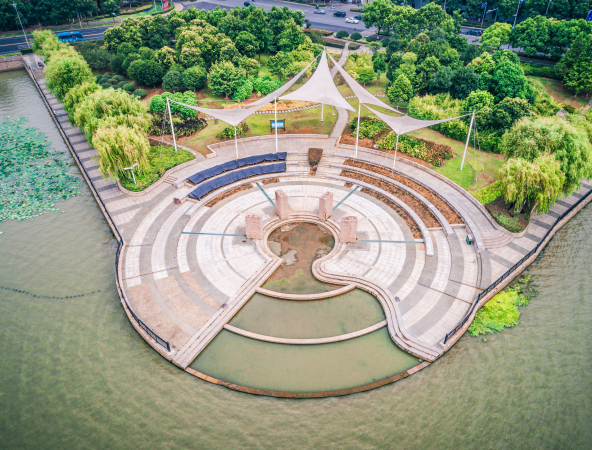
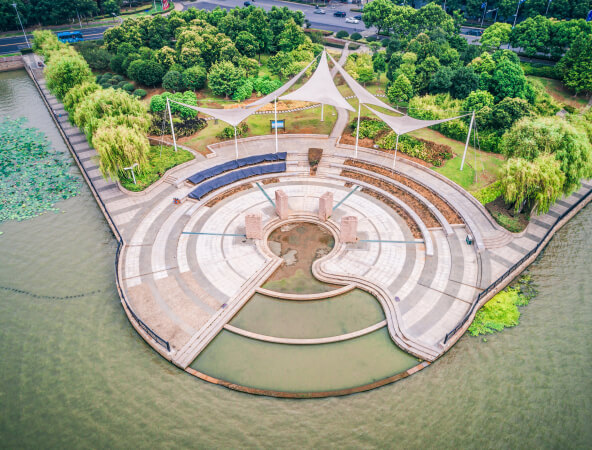
optimized images

diff --git a/build/sectors.html b/build/sectors.html
@@ -129,7 +129,7 @@
                   </ul>
                 </div>
                 <div class="col-12 col-md-6">
-                  <div class="text-center"><img src="img/industry-img-1.svg" alt=""></div>
+                  <div class="text-center"><img src="img/industry-img-1.png" alt=""></div>
                 </div>
               </div>
             </div>
@@ -161,7 +161,7 @@
                   </ul>
                 </div>
                 <div class="col-12 col-md-6">
-                  <div class="text-center"><img src="img/industry-img-2.svg" alt=""></div>
+                  <div class="text-center"><img src="img/industry-img-2.png" alt=""></div>
                 </div>
               </div>
             </div>
@@ -185,7 +185,7 @@
                   </ul>
                 </div>
                 <div class="col-12 col-md-6">
-                  <div class="text-center"><img src="img/industry-img-3.svg" alt=""></div>
+                  <div class="text-center"><img src="img/industry-img-3.png" alt=""></div>
                 </div>
               </div>
             </div>
@@ -205,7 +205,7 @@
                   </ul>
                 </div>
                 <div class="col-12 col-md-6">
-                  <div class="text-center"><img src="img/industry-img-4.svg" alt=""></div>
+                  <div class="text-center"><img src="img/industry-img-4.png" alt=""></div>
                 </div>
               </div>
             </div>
@@ -225,7 +225,7 @@
                   </ul>
                 </div>
                 <div class="col-12 col-md-6">
-                  <div class="text-center"><img src="img/industry-img-5.svg" alt=""></div>
+                  <div class="text-center"><img src="img/industry-img-5.png" alt=""></div>
                 </div>
               </div>
             </div>
@@ -245,7 +245,7 @@
                   </ul>
                 </div>
                 <div class="col-12 col-md-6">
-                  <div class="text-center"><img src="img/industry-img-6.svg" alt=""></div>
+                  <div class="text-center"><img src="img/industry-img-6.png" alt=""></div>
                 </div>
               </div>
             </div>

diff --git a/src/js/main.js b/src/js/main.js
@@ -42,33 +42,37 @@ function smoothScroll() {
     for (let i = 0; i < linkNav.length; i++) {
         linkNav[i].addEventListener("click", function (e) {
             e.preventDefault(); 
-            let w = window.pageYOffset; 
-            let hash = this.href.replace(/[^#]*(.*)/, "$1");
-            let tar = document.querySelector(hash); 
-            let t = tar.getBoundingClientRect().top - headerHeight;
-            let start = null;
-
-            requestAnimationFrame(step); 
-            function step(time) {
-                if (start === null) {
-                    start = time;
-                }
-                var progress = time - start,
-                    r =
-                        t < 0
-                            ? Math.max(w - progress / V, w + t)
-                            : Math.min(w + progress / V, w + t);
-                window.scrollTo(0, r);
-                if (r != w + t) {
-                    requestAnimationFrame(step);
-                } else {
-                    location.hash = hash; 
-                }
-            }
-            if (t > 1 || t < -1) {
-                requestAnimationFrame(step);
-            }
+            scroll()
         });
+    }
+
+    function scroll() {
+        let w = window.pageYOffset; 
+        let hash = this.href.replace(/[^#]*(.*)/, "$1");
+        let tar = document.querySelector(hash); 
+        let t = tar.getBoundingClientRect().top - headerHeight;
+        let start = null;
+
+        requestAnimationFrame(step); 
+        function step(time) {
+            if (start === null) {
+                start = time;
+            }
+            var progress = time - start,
+                r =
+                    t < 0
+                        ? Math.max(w - progress / V, w + t)
+                        : Math.min(w + progress / V, w + t);
+            window.scrollTo(0, r);
+            if (r != w + t) {
+                requestAnimationFrame(step);
+            } else {
+                location.hash = hash; 
+            }
+        }
+        if (t > 1 || t < -1) {
+            requestAnimationFrame(step);
+        }
     }
 }
 

diff --git a/build/js/main.js b/build/js/main.js
@@ -50,33 +50,37 @@
       for (var i = 0; i < linkNav.length; i++) {
         linkNav[i].addEventListener("click", function (e) {
           e.preventDefault();
-          var w = window.pageYOffset;
-          var hash = this.href.replace(/[^#]*(.*)/, "$1");
-          var tar = document.querySelector(hash);
-          var t = tar.getBoundingClientRect().top - headerHeight;
-          var start = null;
-          requestAnimationFrame(step);
-
-          function step(time) {
-            if (start === null) {
-              start = time;
-            }
-
-            var progress = time - start,
-                r = t < 0 ? Math.max(w - progress / V, w + t) : Math.min(w + progress / V, w + t);
-            window.scrollTo(0, r);
-
-            if (r != w + t) {
-              requestAnimationFrame(step);
-            } else {
-              location.hash = hash;
-            }
-          }
-
-          if (t > 1 || t < -1) {
-            requestAnimationFrame(step);
-          }
+          scroll();
         });
+      }
+
+      function scroll() {
+        var w = window.pageYOffset;
+        var hash = this.href.replace(/[^#]*(.*)/, "$1");
+        var tar = document.querySelector(hash);
+        var t = tar.getBoundingClientRect().top - headerHeight;
+        var start = null;
+        requestAnimationFrame(step);
+
+        function step(time) {
+          if (start === null) {
+            start = time;
+          }
+
+          var progress = time - start,
+              r = t < 0 ? Math.max(w - progress / V, w + t) : Math.min(w + progress / V, w + t);
+          window.scrollTo(0, r);
+
+          if (r != w + t) {
+            requestAnimationFrame(step);
+          } else {
+            location.hash = hash;
+          }
+        }
+
+        if (t > 1 || t < -1) {
+          requestAnimationFrame(step);
+        }
       }
     }
 
